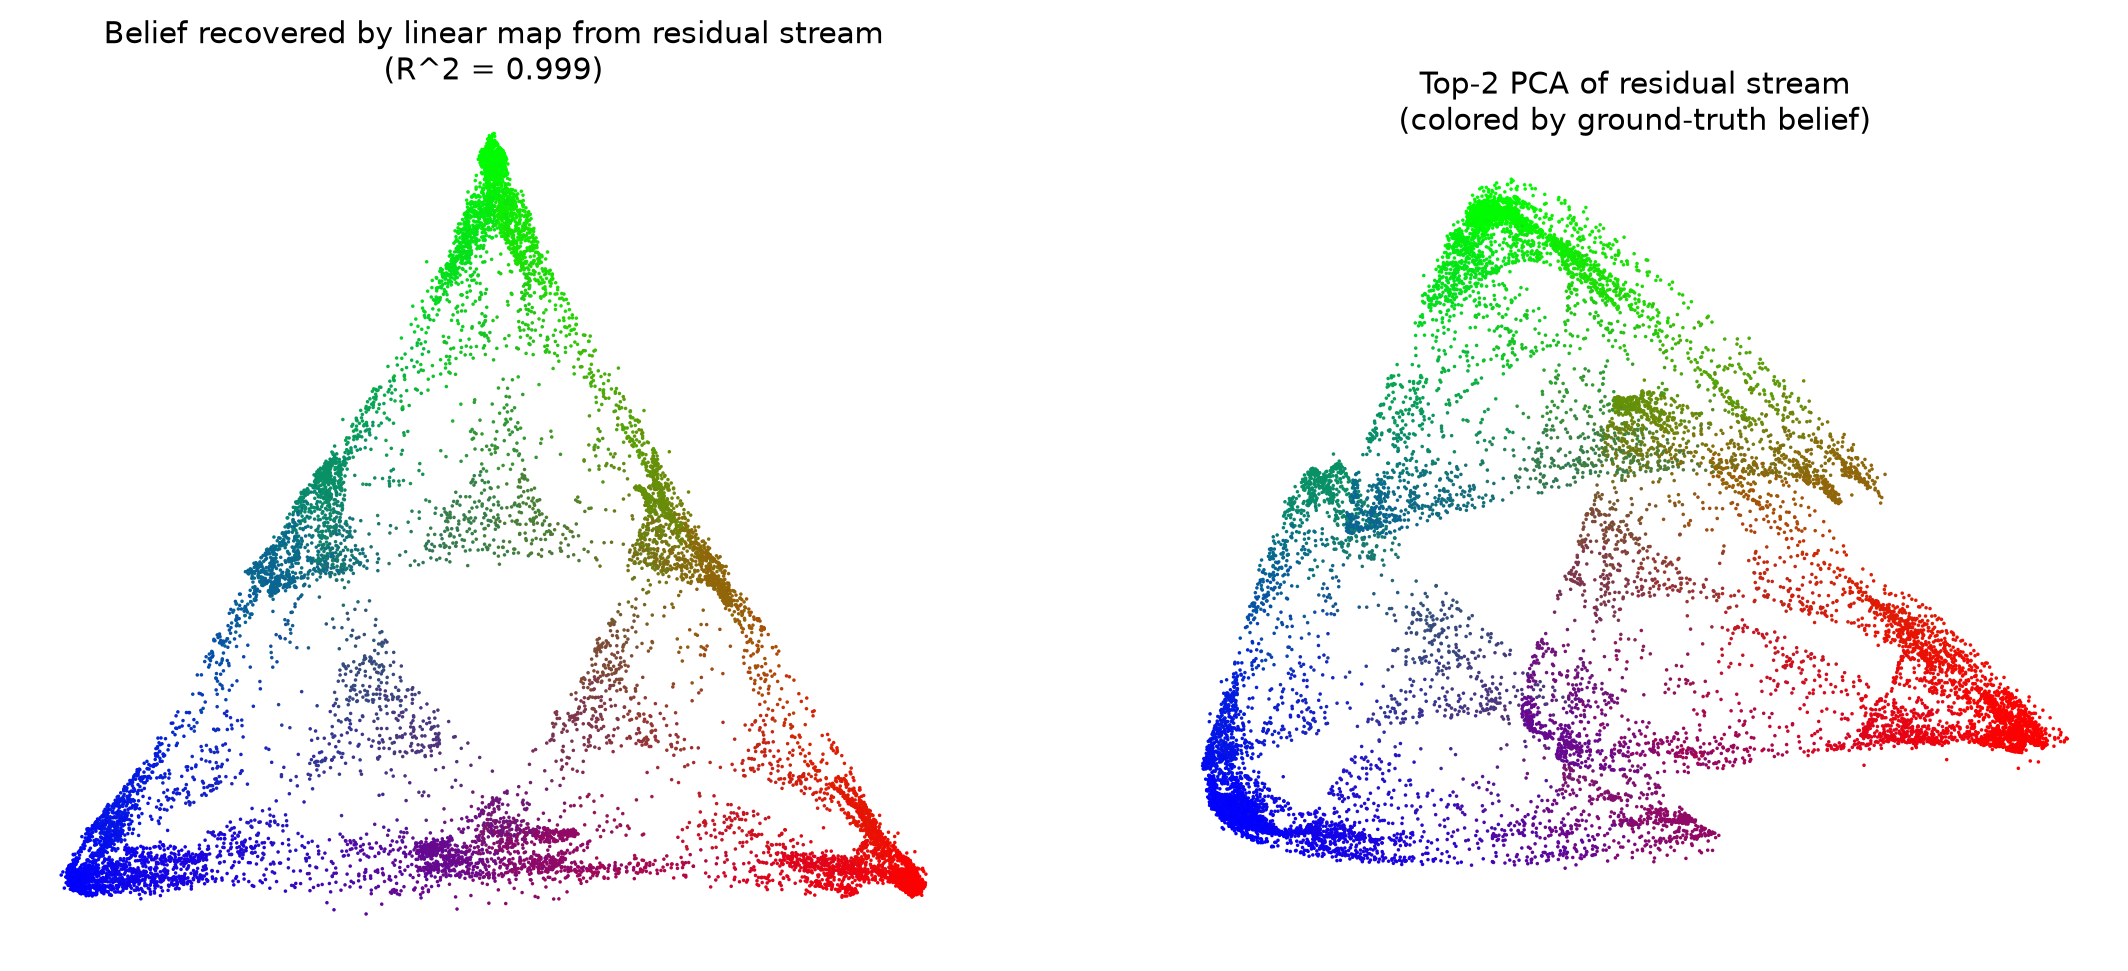
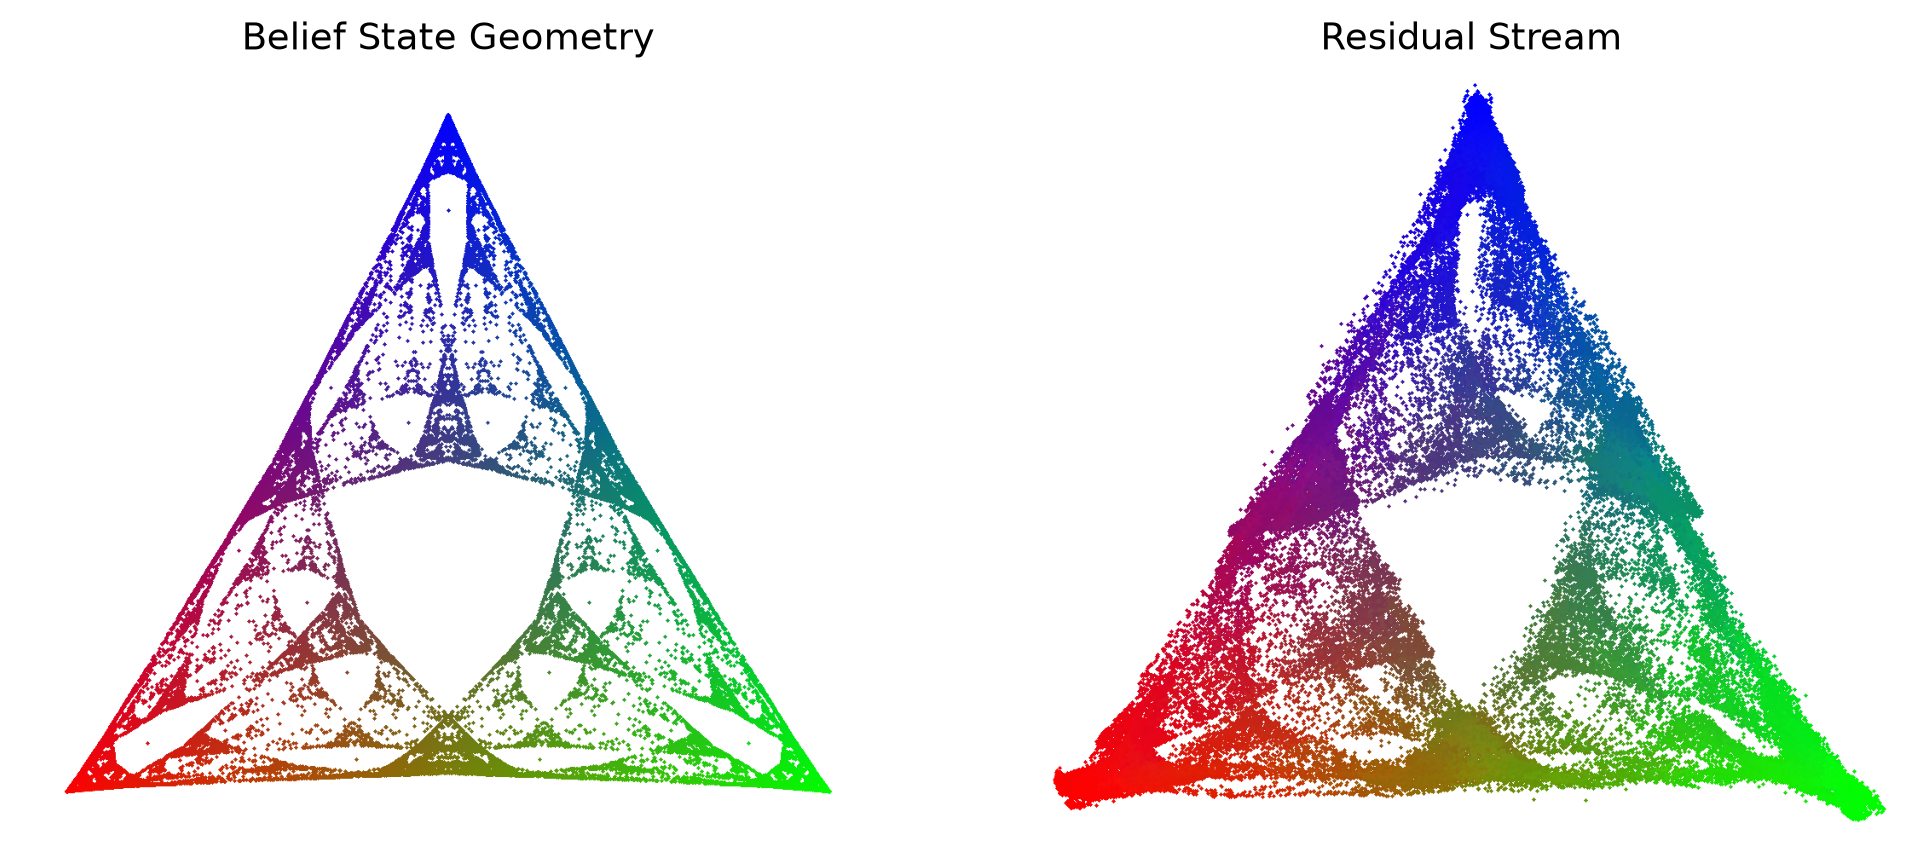
Reproduce paper's Mess3 belief-geometry figure rendering
Port the authors' exact figure pipeline from
adamimos/epsilon-transformers examples/mess3_simplex.ipynb:

- fig03: enumerate all 3^10 length-10 sequences, take every position,
  blocks.3.hook_resid_post, unweighted LinearRegression -> belief,
  paper projection (x=p1+0.5p2, y=(sqrt3/2)p2).
- Render with a datashader-style rasterizer (fixed grid + grey_dilation
  spread, white background) instead of raw matplotlib scatter. This was
  the missing piece: plot density = points/pixels, so high-DPI scatter
  made the fixed ~88572 belief states look sparse; the fixed-grid spread
  fills the body while leaving the internal-triangle holes empty.
- Apply the same paper projection + rasterized rendering to fig04 and
  fig03b for consistent, paper-matching figures.

Context length is 10 throughout (paper Appendix A.6), matching our model.

Changed region(s): [[0.5534, 0.0303, 0.9838, 0.9708], [0.0307, 0.1214, 0.4304, 0.9405], [0.0307, 0.0, 0.4304, 0.091]]

diff --git a/reproduction/fig03_residual_belief_geometry.py b/reproduction/fig03_residual_belief_geometry.py
@@ -1,156 +1,152 @@
-"""Step 3 (headline) - Belief-state geometry in the residual stream.
+"""Reproduce the paper's Mess3 belief-geometry figure EXACTLY (Shai et al.).
 
-The paper's central claim: a transformer trained only on next-token prediction
-linearly encodes the *entire* belief-state simplex (the fractal from Figure 1)
-in its residual stream - not just the next-token distribution.
+Faithful port of the authors' epsilon-transformers notebook
+`examples/mess3_simplex.ipynb` (branch adam/51-make-a-mess3-visual-recreation):
 
-Method (matches Astera `casper/analyses`: sample -> dedup-by-prefix -> weighted)
-------
-1. Sample many mess3 sequences together with their ground-truth belief state at
-   every position (simplexity gives us both).
-2. Run the trained transformer with cache; grab the final-layer residual stream
-   at every position. resid[:, t] and belief[:, t] both condition on tokens 0..t.
-3. Deduplicate by prefix: causal attention makes a position's activation depend
-   only on its prefix, so all occurrences of a prefix are identical. The row
-   weight is the EMPIRICAL prefix frequency (occurrence count) — the natural data
-   measure from sampling alone (no MSP enumeration, no analytic P(w)).
-4. Fit a single linear map  resid -> belief  (probability-weighted least squares).
-   A high weighted R^2 means the belief is linearly readable from the residual.
-5. Visualize: project the regression-predicted beliefs into the 2-simplex,
-   colored by ground-truth belief; plus a raw PCA of the residual stream.
+  1. Enumerate ALL length-n_ctx token sequences (3^n_ctx) and run the model,
+     taking blocks.{last}.hook_resid_post at EVERY position. Each prefix of
+     length L therefore appears with multiplicity 3^(n_ctx-L) -- this is the
+     density weighting the paper's figure uses (it is NOT probability-weighted
+     and is NOT deduplicated).
+  2. Ground-truth belief at every position from the analytic MSP.
+  3. UNWEIGHTED sklearn LinearRegression: activations -> belief.
+  4. Project predicted/true beliefs to the 2-simplex (x=p1+0.5 p2, y=(sqrt3/2) p2)
+     and scatter with tiny markers + alpha, colored RGB by the ground-truth belief.
+
+Two panels, matching the paper: "Belief State Geometry" (true) | "Residual Stream"
+(decoded). The tiny-marker + all-positions rendering is what makes the nested
+internal triangles appear with clean (empty) holes.
 """
 
-from collections import defaultdict
+import itertools
 from pathlib import Path
 
-import jax
-import jax.numpy as jnp
 import matplotlib.pyplot as plt
 import numpy as np
 import torch
+from scipy.ndimage import grey_dilation
+from sklearn.linear_model import LinearRegression
 from transformer_lens import HookedTransformer, HookedTransformerConfig
 
 from simplexity.generative_processes.builder import build_hidden_markov_model
-from simplexity.generative_processes.torch_generator import generate_data_batch_with_full_history
+from simplexity.generative_processes.mixed_state_presentation import MixedStateTreeGenerator
 
 MESS3_PARAMS = {"x": 0.05, "a": 0.85}  # paper values (Appendix A.3)
-N_SEQUENCES = 40000
-BATCH = 2000
-SEED = 7
-
+BATCH = 4096
 OUT_DIR = Path(__file__).parent
 MODEL_DIR = OUT_DIR / "models"
 FIG_DIR = OUT_DIR / "figures"
 
 
-def simplex_to_xy(beliefs: np.ndarray) -> np.ndarray:
-    theta = np.pi / 3.0
-    basis = np.array([[1.0, 0.0], [np.cos(theta), np.sin(theta)]])
-    return beliefs[:, :2] @ basis
+def project_to_simplex(p: np.ndarray):
+    """Paper's projection: state-2=blue top, state-0=red bottom-left, state-1=green bottom-right."""
+    return p[:, 1] + 0.5 * p[:, 2], (np.sqrt(3) / 2.0) * p[:, 2]
 
 
-def load_model(device: str) -> tuple[HookedTransformer, int]:
+def _disk(px: int) -> np.ndarray:
+    r = np.arange(-px, px + 1)
+    yy, xx = np.meshgrid(r, r)
+    return (xx ** 2 + yy ** 2) <= px ** 2
+
+
+def rasterize_simplex(x, y, color_rgb, px=2, W=1000, H=900):
+    """Datashader-style render (matches the paper's tf.shade + tf.spread):
+    bin points into a fixed WxH grid, colour each occupied cell by the mean RGB
+    of points in it, then SPREAD (dilate) by `px` pixels so the fixed point set
+    fills the body; empty cells stay white -> clean internal-triangle holes.
+    Density no longer depends on figure size/DPI.
+    """
+    x0, x1 = -0.05, 1.05
+    y0, y1 = -0.05, np.sqrt(3) / 2 + 0.05
+    ix = np.clip(((x - x0) / (x1 - x0) * W).astype(int), 0, W - 1)
+    iy = np.clip(((y - y0) / (y1 - y0) * H).astype(int), 0, H - 1)
+    sums = np.zeros((H, W, 3))
+    cnt = np.zeros((H, W))
+    np.add.at(sums, (iy, ix), color_rgb)
+    np.add.at(cnt, (iy, ix), 1)
+    occ = cnt > 0
+    mean = np.zeros((H, W, 3))
+    mean[occ] = sums[occ] / cnt[occ, None]
+    fp = _disk(px)
+    occ_d = grey_dilation(occ.astype(np.uint8), footprint=fp) > 0
+    mean_d = np.stack([grey_dilation(mean[:, :, c], footprint=fp) for c in range(3)], axis=-1)
+    img = np.ones((H, W, 3))                      # white background
+    img[occ_d] = np.clip(mean_d[occ_d], 0, 1)
+    return img
+
+
+def load_model(device: str):
     ckpt = torch.load(MODEL_DIR / "mess3_transformer.pt", map_location=device, weights_only=False)
     cfg = HookedTransformerConfig.from_dict(ckpt["cfg"])
-    cfg.device = device  # checkpoint was trained on cuda; honor the local device (e.g. cpu)
+    cfg.device = device
     model = HookedTransformer(cfg)
     model.load_state_dict(ckpt["state_dict"])
     model.to(device).eval()
     return model, ckpt["context_len"]
 
 
-def collect_residuals(model, hmm, context_len, device):
-    """Sample sequences, dedup by prefix, return (X, Y, w) over unique prefixes.
-
-    Causal attention => a position's activation/belief depend only on its prefix,
-    so dedup is exact. Weight w = empirical prefix frequency (occurrence count,
-    normalised) — the natural measure from sampling, no analytic P(w).
-    """
-    init_state = jnp.array(hmm.initial_state)
-    key = jax.random.PRNGKey(SEED)
+def collect_all_sequences(model, hmm, context_len, device):
+    """All length-context_len sequences, every position: activations + analytic belief."""
+    vocab = hmm.vocab_size
     layer = model.cfg.n_layers - 1
 
-    resid, belief = {}, {}
-    count = defaultdict(int)
-    done = 0
-    while done < N_SEQUENCES:
-        b = min(BATCH, N_SEQUENCES - done)
-        key, bk = jax.random.split(key)
-        gen_states = jnp.repeat(init_state[None, :], b, axis=0)
-        data = generate_data_batch_with_full_history(gen_states, hmm, b, context_len, bk, device=device)
-        inputs = data["inputs"].long().to(device)  # (b, T)
-        beliefs = np.asarray(data["belief_states"])  # (b, T, n_states)
+    # prefix -> analytic belief, from the MSP (display/scoring target only)
+    tree = MixedStateTreeGenerator(hmm, max_sequence_length=context_len).generate()
+    pref2bel = {
+        tuple(int(t) for t in seq): np.asarray(v.belief_state, dtype=np.float32)
+        for seq, v in tree.nodes.items() if len(seq) > 0
+    }
+
+    seqs = np.array(list(itertools.product(range(vocab), repeat=context_len)), dtype=np.int64)
+    acts, bels = [], []
+    for i in range(0, len(seqs), BATCH):
+        chunk = seqs[i : i + BATCH]
+        inp = torch.from_numpy(chunk).to(device)
         with torch.no_grad():
-            _, cache = model.run_with_cache(inputs, names_filter=f"blocks.{layer}.hook_resid_post")
-        z = cache["resid_post", layer].cpu().numpy()  # (b, T, d_model)
-        toks = inputs.cpu().numpy()
-        T = toks.shape[1]
-        for si in range(b):
+            _, cache = model.run_with_cache(inp, names_filter=f"blocks.{layer}.hook_resid_post")
+        acts.append(cache["resid_post", layer].cpu().numpy())  # (b, L, d)
+        bb = np.empty((len(chunk), context_len, 3), dtype=np.float32)
+        for r, s in enumerate(chunk):
             pref = ()
-            for pos in range(T):
-                pref = pref + (int(toks[si, pos]),)
-                count[pref] += 1
-                if pref not in resid:
-                    resid[pref] = z[si, pos]
-                    belief[pref] = beliefs[si, pos]
-        done += b
+            for j in range(context_len):
+                pref = pref + (int(s[j]),)
+                bb[r, j] = pref2bel[pref]
+        bels.append(bb)
 
-    keys = list(resid.keys())
-    X = np.stack([resid[k] for k in keys])
-    Y = np.stack([belief[k] for k in keys])
-    total = sum(count.values())
-    w = np.array([count[k] / total for k in keys])
-    return X, Y, w
+    A = np.concatenate(acts, 0).reshape(-1, model.cfg.d_model)
+    Y = np.concatenate(bels, 0).reshape(-1, 3)
+    return A, Y
 
 
-def fit_linear(X: np.ndarray, Y: np.ndarray, w: np.ndarray) -> tuple[np.ndarray, float]:
-    """Probability-weighted OLS map X(+bias) -> Y. Returns predictions and weighted R^2."""
-    Xb = np.concatenate([X, np.ones((X.shape[0], 1))], axis=1)
-    sw = np.sqrt(w)[:, None]
-    beta, *_ = np.linalg.lstsq(Xb * sw, Y * sw, rcond=None)
-    Yhat = Xb @ beta
-    ss_res = (w[:, None] * (Y - Yhat) ** 2).sum()
-    ss_tot = (w[:, None] * (Y - np.average(Y, axis=0, weights=w)) ** 2).sum()
-    return Yhat, float(1.0 - ss_res / ss_tot)
-
-
-def main() -> None:
+def main():
     FIG_DIR.mkdir(parents=True, exist_ok=True)
     device = "cuda" if torch.cuda.is_available() else "cpu"
     hmm = build_hidden_markov_model("mess3", MESS3_PARAMS)
     model, context_len = load_model(device)
 
-    X, Y, w = collect_residuals(model, hmm, context_len, device)
-    print(f"unique prefixes from {N_SEQUENCES} sampled sequences: {X.shape[0]}; d_model={X.shape[1]}")
+    A, Y = collect_all_sequences(model, hmm, context_len, device)
+    print(f"points (all positions of all 3^{context_len} sequences): {A.shape[0]}  d_model={A.shape[1]}")
 
-    Yhat, r2 = fit_linear(X, Y, w)
-    print(f"weighted linear regression residual -> belief  R^2 = {r2:.4f}")
+    reg = LinearRegression().fit(A, Y)         # unweighted, like the paper
+    Yhat = reg.predict(A)
+    print(f"residual -> belief  R^2 = {reg.score(A, Y):.4f}")
 
-    # subsample for plotting density
-    rng = np.random.default_rng(0)
-    idx = rng.choice(X.shape[0], size=min(60000, X.shape[0]), replace=False)
+    tx, ty = project_to_simplex(Y)
+    px_, py_ = project_to_simplex(Yhat)
+    rgb = np.clip(Y, 0, 1)                        # colour by ground-truth belief (both panels)
 
-    fig, axes = plt.subplots(1, 2, figsize=(15, 7))
+    img_true = rasterize_simplex(tx, ty, rgb, px=2)
+    img_pred = rasterize_simplex(px_, py_, rgb, px=2)
 
-    # (a) regression-recovered belief simplex
-    xy_pred = simplex_to_xy(Yhat[idx])
-    color = np.clip(Y[idx], 0, 1)
-    axes[0].scatter(xy_pred[:, 0], xy_pred[:, 1], c=color, s=2, edgecolors="none")
-    axes[0].set_aspect("equal")
-    axes[0].axis("off")
-    axes[0].set_title(f"Belief recovered by linear map from residual stream\n(R^2 = {r2:.3f})")
-
-    # (b) raw PCA of the residual stream, colored by ground-truth belief
-    Xc = X[idx] - X[idx].mean(0)
-    _, _, vt = np.linalg.svd(Xc, full_matrices=False)
-    pcs = Xc @ vt[:2].T
-    axes[1].scatter(pcs[:, 0], pcs[:, 1], c=color, s=2, edgecolors="none")
-    axes[1].set_aspect("equal")
-    axes[1].axis("off")
-    axes[1].set_title("Top-2 PCA of residual stream\n(colored by ground-truth belief)")
-
+    fig, axes = plt.subplots(1, 2, figsize=(11, 5))
+    axes[0].imshow(img_true, origin="lower")
+    axes[0].set_title("Belief State Geometry")
+    axes[1].imshow(img_pred, origin="lower")
+    axes[1].set_title("Residual Stream")
+    for ax in axes:
+        ax.axis("off")
     out = FIG_DIR / "fig03_residual_belief_geometry_mess3.png"
-    fig.savefig(out, dpi=180, bbox_inches="tight")
+    fig.savefig(out, dpi=220, bbox_inches="tight", facecolor="white")
     print(f"saved -> {out}")
 
 

diff --git a/reproduction/unsupervised_belief_oom.py b/reproduction/unsupervised_belief_oom.py
@@ -82,6 +82,7 @@ import jax.numpy as jnp
 import matplotlib.pyplot as plt
 import numpy as np
 import torch
+from scipy.ndimage import grey_dilation
 from transformer_lens import HookedTransformer, HookedTransformerConfig
 
 from simplexity.generative_processes.builder import build_hidden_markov_model
@@ -531,9 +532,43 @@ def belief_decode_r2(features, Y, w):
 
 
 def simplex_to_xy(beliefs):
-    theta = np.pi / 3.0
-    basis = np.array([[1.0, 0.0], [np.cos(theta), np.sin(theta)]])
-    return beliefs[:, :2] @ basis
+    # Paper's projection (simplexity casper/analyses): state-2=blue top apex,
+    # state-0=red bottom-left, state-1=green bottom-right.
+    x = beliefs[:, 1] + 0.5 * beliefs[:, 2]
+    y = (np.sqrt(3) / 2.0) * beliefs[:, 2]
+    return np.stack([x, y], axis=1)
+
+
+def _disk(px):
+    r = np.arange(-px, px + 1)
+    yy, xx = np.meshgrid(r, r)
+    return (xx ** 2 + yy ** 2) <= px ** 2
+
+
+def rasterize_simplex(xy, color_rgb, px=2, W=1000, H=900):
+    """Datashader-style render (matches the paper's tf.shade + tf.spread): bin
+    points into a fixed WxH grid, colour each occupied cell by the mean RGB of
+    its points, then dilate by `px`; empty cells stay white. Density is then
+    independent of figure size/DPI (the cause of earlier 'sparse' looking plots).
+    """
+    x, y = xy[:, 0], xy[:, 1]
+    x0, x1 = -0.05, 1.05
+    y0, y1 = -0.05, np.sqrt(3) / 2 + 0.05
+    ix = np.clip(((x - x0) / (x1 - x0) * W).astype(int), 0, W - 1)
+    iy = np.clip(((y - y0) / (y1 - y0) * H).astype(int), 0, H - 1)
+    sums = np.zeros((H, W, 3))
+    cnt = np.zeros((H, W))
+    np.add.at(sums, (iy, ix), color_rgb)
+    np.add.at(cnt, (iy, ix), 1)
+    occ = cnt > 0
+    mean = np.zeros((H, W, 3))
+    mean[occ] = sums[occ] / cnt[occ, None]
+    fp = _disk(px)
+    occ_d = grey_dilation(occ.astype(np.uint8), footprint=fp) > 0
+    mean_d = np.stack([grey_dilation(mean[:, :, c], footprint=fp) for c in range(3)], axis=-1)
+    img = np.ones((H, W, 3))
+    img[occ_d] = np.clip(mean_d[occ_d], 0, 1)
+    return img
 
 
 # --------------------------------------------------------------------------- #
@@ -675,24 +710,23 @@ def main():
     print(f"  unsup, recovered 3-D subspace     -> belief:   {r2_sub:.4f}  (must be <= supervised)")
     print(f"  unsup, operator-rollout state     -> belief:   {r2_roll:.4f}  (generative; certified by eig)")
 
-    fig, axes = plt.subplots(1, 3, figsize=(21, 7))
-    axes[0].scatter(true_xy[:, 0], true_xy[:, 1], c=color, s=2, edgecolors="none")
+    fig, axes = plt.subplots(1, 3, figsize=(18, 6))
+    axes[0].imshow(rasterize_simplex(true_xy, color, px=2), origin="lower")
     axes[0].set_title("Ground truth (analytic belief)")
-    axes[1].scatter(act_aligned[:, 0], act_aligned[:, 1], c=color, s=2, edgecolors="none")
+    axes[1].imshow(rasterize_simplex(act_aligned, color, px=2), origin="lower")
     axes[1].set_title(
         "Unsupervised: raw activations\n"
         f"(d*={d_star}; align R^2 w={raw_r2_w:.3f} / u={raw_r2_u:.3f})"
     )
-    axes[2].scatter(roll_aligned[:, 0], roll_aligned[:, 1], c=rcolor, s=2, edgecolors="none")
+    axes[2].imshow(rasterize_simplex(roll_aligned, rcolor, px=2), origin="lower")
     axes[2].set_title(
         "Unsupervised: operator rollout (denoised)\n"
         f"(align R^2 w={roll_r2_w:.3f} / u={roll_r2_u:.3f})"
     )
     for ax in axes:
-        ax.set_aspect("equal")
         ax.axis("off")
     out = FIG_DIR / "fig04_unsupervised_oom_mess3.png"
-    fig.savefig(out, dpi=180, bbox_inches="tight")
+    fig.savefig(out, dpi=180, bbox_inches="tight", facecolor="white")
     print(f"\nsaved -> {out}")
 
 

diff --git a/reproduction/fig03b_residual_belief_enumerated.py b/reproduction/fig03b_residual_belief_enumerated.py
@@ -31,9 +31,11 @@ FIG_DIR = OUT_DIR / "figures"
 
 
 def simplex_to_xy(beliefs: np.ndarray) -> np.ndarray:
-    theta = np.pi / 3.0
-    basis = np.array([[1.0, 0.0], [np.cos(theta), np.sin(theta)]])
-    return beliefs[:, :2] @ basis
+    # Paper's projection (simplexity casper/analyses): state-2=blue top apex,
+    # state-0=red bottom-left, state-1=green bottom-right.
+    x = beliefs[:, 1] + 0.5 * beliefs[:, 2]
+    y = (np.sqrt(3) / 2.0) * beliefs[:, 2]
+    return np.stack([x, y], axis=1)
 
 
 def load_model(device: str):
